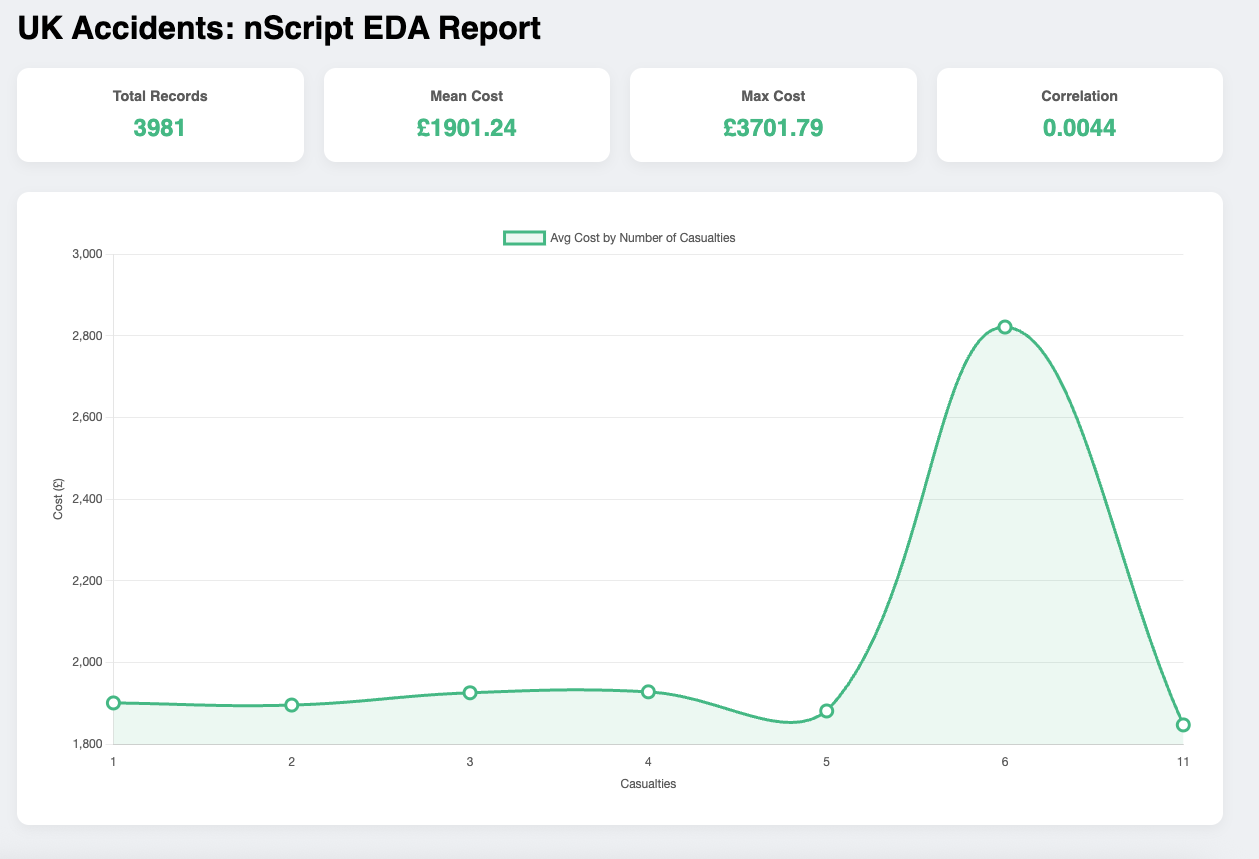
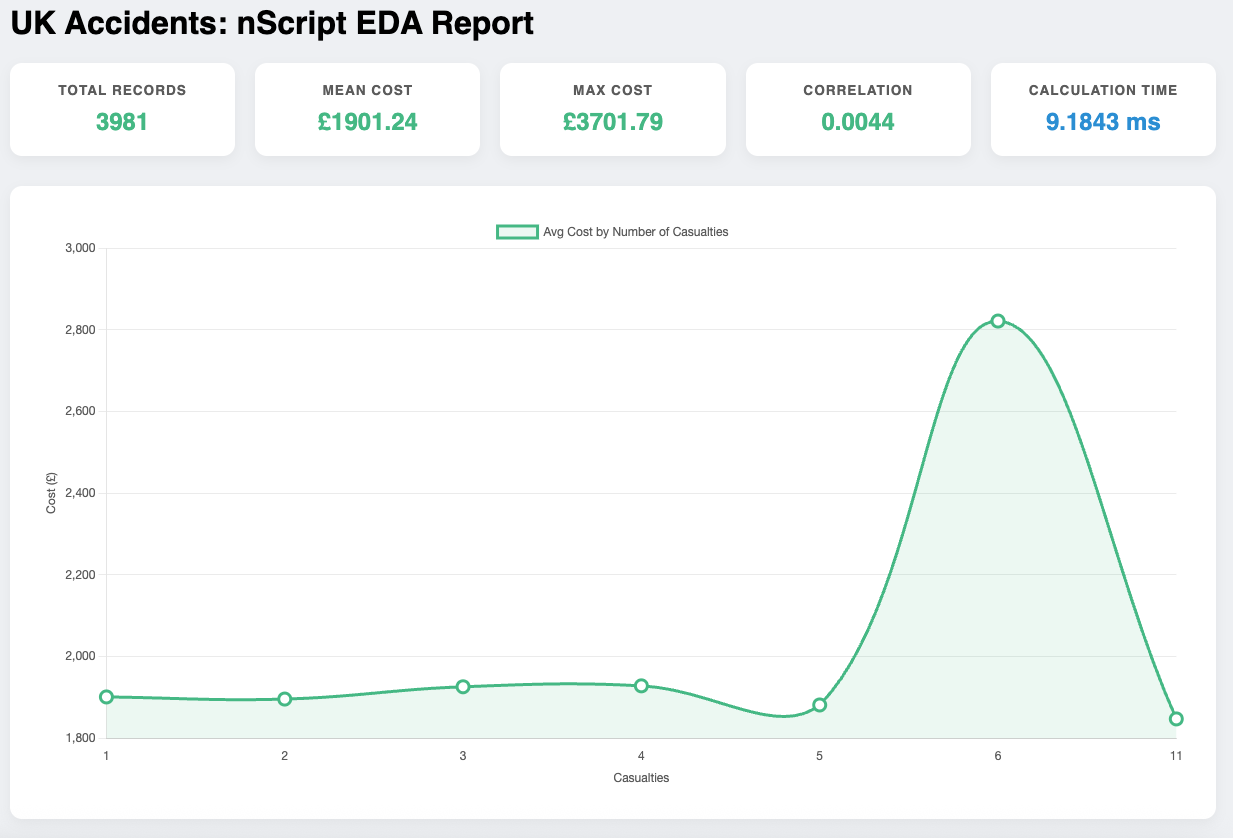
Readme.md update
--partial update

diff --git a/demo/ukcarsweb2.js b/demo/ukcarsweb2.js
@@ -1,0 +1,113 @@
+const numscrpt = require('bindings')('numscrpt_core');
+const fs = require('fs');
+const { performance } = require('perf_hooks');
+
+// --- 1. LOAD & CLEAN DATA ---
+const raw = fs.readFileSync('./datasets/ukCars.csv', 'utf8')
+    .split('\n')
+    .filter(line => line.trim() !== '' && line.includes(','))
+    .map(line => line.split(','));
+
+const body = raw.slice(1);
+
+// Extract Columns
+let costs = body.map(r => parseFloat(r[21]));
+let casualties = body.map(r => parseFloat(r[19]));
+let vehicles = body.map(r => parseFloat(r[20]));
+
+// --- 2. CALCULATE METRICS (WITH PERFORMANCE TIMER) ---
+// Start timer just before nScript calls
+const start = performance.now();
+
+// Data Integrity Check with numscrpt
+if (numscrpt.isnan(costs).includes(true)) {
+    costs = numscrpt.fillna(costs, numscrpt.median(numscrpt.dropna(costs)));
+}
+
+const totalRecords = numscrpt.size(costs);
+const avgCost = numscrpt.mean(costs);
+const costStd = numscrpt.std(costs);
+const maxCost = numscrpt.max(costs);
+const correlation = numscrpt.corr(casualties, costs);
+
+const uniqueCas = [...new Set(casualties)].sort((a, b) => a - b);
+const avgCostByCas = uniqueCas.map(c => {
+    const filtered = body.filter(r => parseFloat(r[19]) === c).map(r => parseFloat(r[21]));
+    return numscrpt.mean(filtered);
+});
+
+const end = performance.now();
+const calcTime = (end - start).toFixed(4); // Time in milliseconds
+
+// --- 3. GENERATE THE DASHBOARD ---
+const html = `
+<!DOCTYPE html>
+<html lang="en">
+<head>
+    <meta charset="UTF-8">
+    <title>nScript EDA Dashboard</title>
+    <script src="https://cdn.jsdelivr.net/npm/chart.js"></script>
+    <style>
+        body { font-family: 'Segoe UI', sans-serif; background: #f0f2f5; margin: 0; padding: 40px; }
+        .grid { display: grid; grid-template-columns: repeat(auto-fit, minmax(180px, 1fr)); gap: 20px; margin-bottom: 30px; }
+        .card { background: white; padding: 20px; border-radius: 12px; box-shadow: 0 4px 12px rgba(0,0,0,0.05); text-align: center; }
+        .card h3 { margin: 0; color: #666; font-size: 0.85rem; text-transform: uppercase; letter-spacing: 1px; }
+        .card p { margin: 10px 0 0; font-size: 1.5rem; font-weight: bold; color: #4FC08D; }
+        .chart-container { background: white; padding: 30px; border-radius: 12px; box-shadow: 0 4px 12px rgba(0,0,0,0.05); }
+        .speed-badge { color: #3498db !important; } /* Distinct color for speed */
+    </style>
+</head>
+<body>
+    <h1>UK Accidents: nScript EDA Report</h1>
+    
+    <div class="grid">
+        <div class="card"><h3>Total Records</h3><p>${totalRecords}</p></div>
+        <div class="card"><h3>Mean Cost</h3><p>£${avgCost.toFixed(2)}</p></div>
+        <div class="card"><h3>Max Cost</h3><p>£${maxCost.toFixed(2)}</p></div>
+        <div class="card"><h3>Correlation</h3><p>${correlation.toFixed(4)}</p></div>
+        <div class="card"><h3>Calculation Time</h3><p class="speed-badge">${calcTime} ms</p></div>
+    </div>
+
+    <div class="chart-container">
+        <canvas id="mainChart"></canvas>
+    </div>
+
+    <script>
+        new Chart(document.getElementById('mainChart'), {
+            type: 'line',
+            data: {
+                labels: ${JSON.stringify(uniqueCas)},
+                datasets: [{
+                    label: 'Avg Cost by Number of Casualties',
+                    data: ${JSON.stringify(avgCostByCas)},
+                    borderColor: '#4FC08D',
+                    backgroundColor: 'rgba(79, 192, 141, 0.1)',
+                    fill: true,
+                    tension: 0.4,
+                    pointRadius: 6,
+                    pointBackgroundColor: '#fff',
+                    pointBorderColor: '#4FC08D',
+                    borderWidth: 3
+                }]
+            },
+            options: {
+                responsive: true,
+                scales: {
+                    y: { title: { display: true, text: 'Cost (£)' }, grid: { color: '#eee' } },
+                    x: { title: { display: true, text: 'Casualties' }, grid: { display: false } }
+                }
+            }
+        });
+    </script>
+</body>
+</html>
+`;
+
+fs.writeFileSync('nScript_Dashboard.html', html);
+console.log(`
+---------------------------------------
+Records Scanned  : ${totalRecords}
+Calculation Time : ${calcTime} ms (Native C++)
+Output File      : nScript_Dashboard.html
+---------------------------------------
+`);

diff --git a/demo/nScript_Dashboard.html b/demo/nScript_Dashboard.html
@@ -7,11 +7,12 @@
     <script src="https://cdn.jsdelivr.net/npm/chart.js"></script>
     <style>
         body { font-family: 'Segoe UI', sans-serif; background: #f0f2f5; margin: 0; padding: 40px; }
-        .grid { display: grid; grid-template-columns: repeat(auto-fit, minmax(200px, 1fr)); gap: 20px; margin-bottom: 30px; }
+        .grid { display: grid; grid-template-columns: repeat(auto-fit, minmax(180px, 1fr)); gap: 20px; margin-bottom: 30px; }
         .card { background: white; padding: 20px; border-radius: 12px; box-shadow: 0 4px 12px rgba(0,0,0,0.05); text-align: center; }
-        .card h3 { margin: 0; color: #666; font-size: 0.9rem; }
+        .card h3 { margin: 0; color: #666; font-size: 0.85rem; text-transform: uppercase; letter-spacing: 1px; }
         .card p { margin: 10px 0 0; font-size: 1.5rem; font-weight: bold; color: #4FC08D; }
         .chart-container { background: white; padding: 30px; border-radius: 12px; box-shadow: 0 4px 12px rgba(0,0,0,0.05); }
+        .speed-badge { color: #3498db !important; } /* Distinct color for speed */
     </style>
 </head>
 <body>
@@ -22,6 +23,7 @@
         <div class="card"><h3>Mean Cost</h3><p>£1901.24</p></div>
         <div class="card"><h3>Max Cost</h3><p>£3701.79</p></div>
         <div class="card"><h3>Correlation</h3><p>0.0044</p></div>
+        <div class="card"><h3>Calculation Time</h3><p class="speed-badge">9.1843 ms</p></div>
     </div>
 
     <div class="chart-container">
